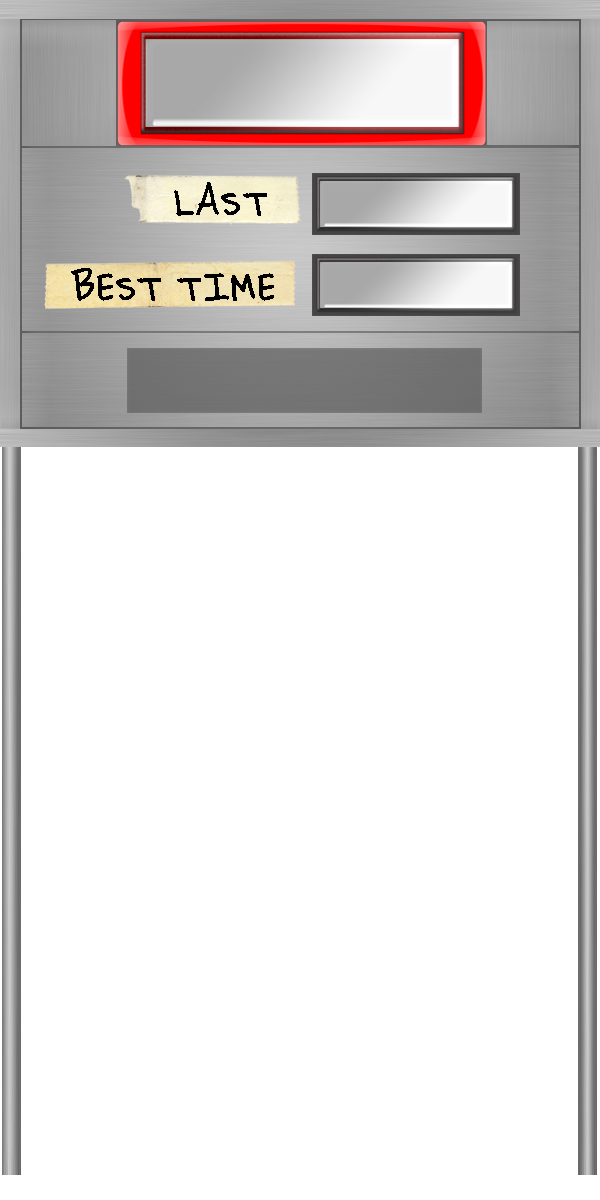
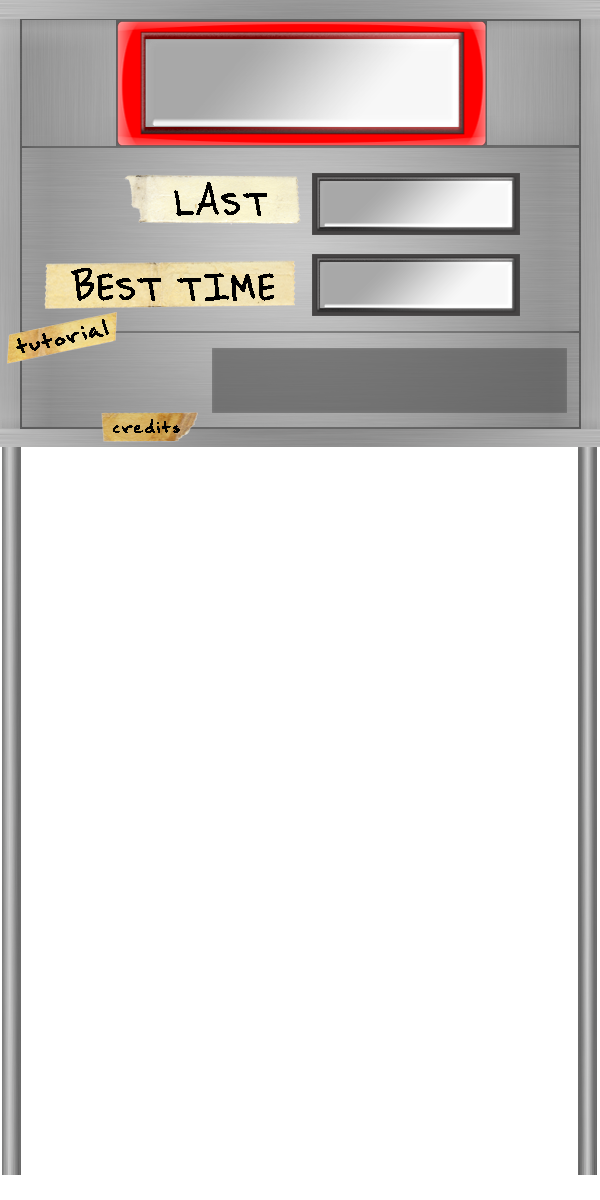
tutorial and credits buttons, tutorial button wired up

Changed region(s): [[0.0, 0.2467, 0.36, 0.37], [0.78, 0.2775, 0.96, 0.37]]

diff --git a/Assets/StartTutorial.cs b/Assets/StartTutorial.cs
@@ -1,0 +1,9 @@
+using UnityEngine;
+using System.Collections;
+
+public class StartTutorial : MonoBehaviour {
+
+	public void GoToTutorial(){
+		Application.LoadLevel("Tutorial1");
+	}
+}

diff --git a/README.md b/README.md
@@ -2,9 +2,19 @@
 
 ### TODO
 
-* Play applause sound on returning to start screen if score was a high score
-* Add tutorial link to main screen menu
-* Add credits flip out panel to main screen menu
+
+* Apply animations to tutorial transition
+* Add button pressed state
+* Update tutorial to use modern prefabs, have matching background, etc.
+* Maybe gray background for tutorial?
+* Redesign tutorial text to match metal ui?
+* Add back button from tutorial to main menu
+* Add sounds on button presses
+* Make animation for credits flip out panel
+* Make credits still
+* Make animation back
+* Trigger credits panel from button
+* Line up buttons in start panel
 * Better jump sound
 * Better wipeout pickup sound
 * Better wipeout usage sound
@@ -14,3 +24,5 @@
 * Animate arrow when jumping
 * Add music
 * Better death indications: sound, on-screen graphics over frozen screen, something
+
+* Play applause sound on returning to start screen if score was a high score
